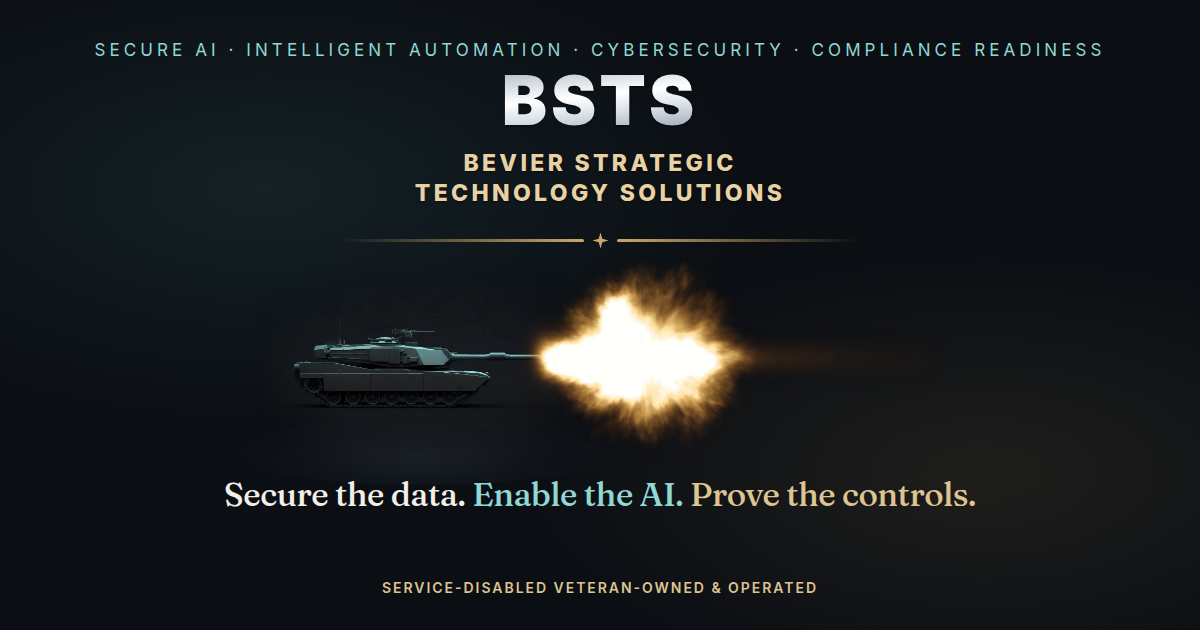
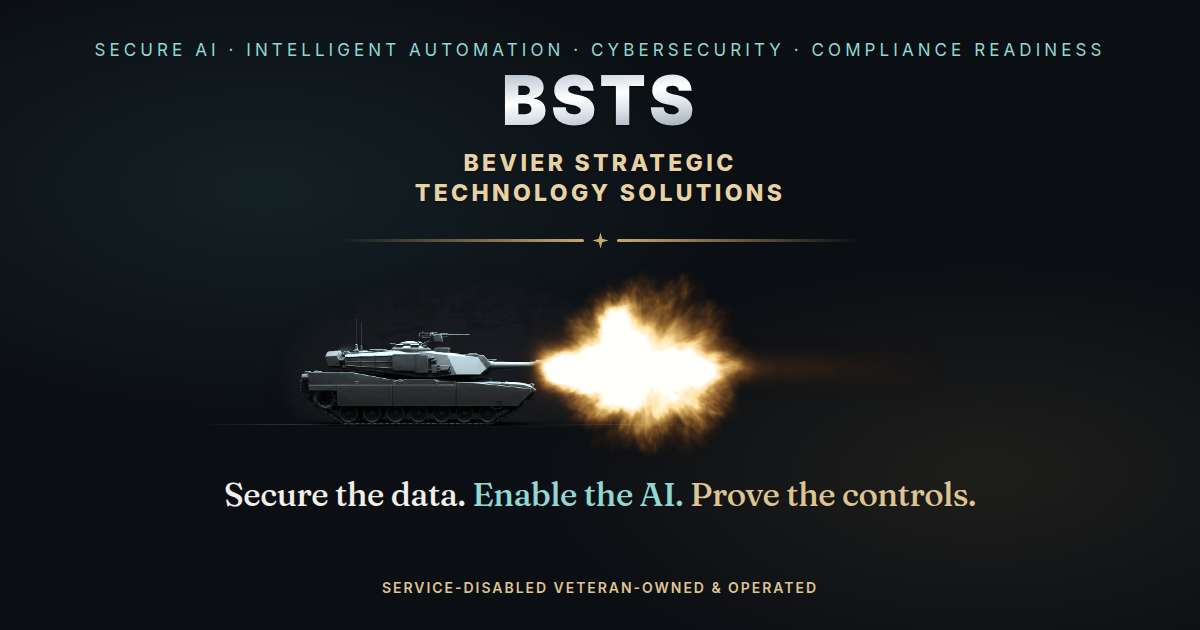
Site adopts the brochure's tank treatment and reduced flash
The brochures got a 30% smaller muzzle flash, a cropped tank, and a real
contact shadow; the site did not, so the two had visibly drifted apart in the
one place they most need to agree.

- /abrams-tank.webp replaces /abrams.webp. Same crop as print: cut at the
  track line, so the near-black wash below the tracks is gone. Bore axis
  moves to 61.99% of the new height.
- BLAST_TO_TANK drops from 1.2336 to 0.8635 — the same 2.70 -> 1.89in cut the
  covers took. Every dependent percentage re-solves from it.
- .hero-ground is replaced by .hero-horizon and .hero-contact, the same
  hairline-plus-contact-shadow pair the print pieces use. The old wash was a
  light ellipse floating behind the tank, which is half of what made it hover.
- The share card is regenerated from the same numbers; og-src.html carries its
  own copy of the geometry, so it is recomputed rather than hand-edited.

brand.test.ts updated: it now pins the tank source to the cropped asset and
the ratio to 0.8635, so the site cannot silently drift back to the old flash.

61 vitest, eslint clean.

Changed region(s): [[0.2467, 0.4222, 0.6475, 0.7238]]

diff --git a/src/components/brand/lockup.ts b/src/components/brand/lockup.ts
@@ -29,13 +29,21 @@
  * which is why the axis stays at 50% and only the attach fraction moves.
  */
 
-/** Tank bitmap: intrinsic size and the measured bore exit. */
+/** Tank bitmap: intrinsic size, the measured bore exit, and the ground. */
 export const TANK = {
-  src: "/abrams.webp",
+  // Cropped at the track line. The previous asset carried a near-black wash
+  // at ~40 alpha across 411 rows BELOW the tracks — a detached shadow, which
+  // is what made the tank read as hovering.
+  src: "/abrams-tank.webp",
   w: 1280,
-  h: 731,
+  h: 513,
   muzzleXFrac: 0.9133,
-  muzzleYFrac: 0.435,
+  muzzleYFrac: 0.6199,
+  /** where the tracks meet the ground, as a fraction of bitmap height */
+  groundYFrac: 503 / 513,
+  /** track footprint centre and width, as fractions of bitmap width */
+  footCXFrac: 0.4645,
+  footWFrac: 0.6539,
 } as const;
 
 /** Blast bitmap: intrinsic size, attach point, and axis. */
@@ -49,12 +57,13 @@ export const BLAST = {
 
 /**
  * Rendered width of the blast relative to the rendered width of the tank.
- * Taken from the brochure cover (tank 1.98in, blast 2.70in). Only one
+ * Taken from the brochure cover (tank 1.98in, blast 1.89in — the flash was
+ * cut 30% so the tracer, not the explosion, carries the energy). Only one
  * correction is needed: the web blast is a 1357/1500 crop of the print
  * asset. The two tank bitmaps need none — both are 1280 wide with the
  * muzzle at x 1169, so they share horizontal framing exactly.
  */
-export const BLAST_TO_TANK = (2.7 * (BLAST.w / 1500)) / 1.98;
+export const BLAST_TO_TANK = (1.89 * (BLAST.w / 1500)) / 1.98;
 
 /**
  * Solve for the smallest box that contains both bitmaps with their bore axes
@@ -92,6 +101,10 @@ function solve() {
     muzzleXPct: TANK.muzzleXFrac * tankW * 100,
     /** where the blast's attach point lands, same units — must match */
     attachXPct: (1 - blastW + BLAST.attachXFrac * blastW) * 100,
+    /** contact shadow + horizon, all as percentages of the box */
+    groundYPct: ((above - TANK.muzzleYFrac * tankH + TANK.groundYFrac * tankH) / boxH) * 100,
+    footCXPct: TANK.footCXFrac * tankW * 100,
+    footWPct: TANK.footWFrac * tankW * 100,
   };
 }
 

diff --git a/og-src.html b/og-src.html
@@ -70,15 +70,18 @@
   .star-rule .sr-line.r { background: linear-gradient(90deg, #c9a869 0%, rgba(201,168,105,0) 100%); }
 
   /* The shot. Percentages are the shared registration contract. */
-  .lockup { position: absolute; top: 252px; left: 255px; width: 690px; height: 215.5px; }
-  .ground {
-    position: absolute; top: 78%; left: -5%; width: 58%; height: 30%; border-radius: 50%;
-    background: radial-gradient(ellipse 60% 100% at 50% 50%,
-      rgba(120,148,178,0.16) 0%, rgba(90,116,145,0.07) 45%, rgba(11,14,19,0) 78%);
-  }
+  .lockup { position: absolute; top: 262px; left: 255px; width: 690px; height: 189.6px; }
+  .horizon { position: absolute; height: 1.5px;
+    background: linear-gradient(90deg, rgba(150,176,202,0) 0%, rgba(150,176,202,.26) 22%,
+      rgba(150,176,202,.38) 50%, rgba(150,176,202,.26) 78%, rgba(150,176,202,0) 100%);
+    top: 85.245%; left: -8.560%; width: 72.484%; }
+  .contact { position: absolute; border-radius: 50%; height: 9.2%;
+    background: radial-gradient(ellipse 50% 50% at 50% 50%, rgba(0,0,0,.70) 0%,
+      rgba(0,0,0,.40) 32%, rgba(0,0,0,.14) 58%, rgba(0,0,0,0) 80%);
+    top: 80.645%; left: 6.249%; width: 42.867%; }
   .tank {
-    position: absolute; top: 8.815%; left: 0; width: 49.858%; height: auto;
-    filter: brightness(1.18) contrast(1.05);
+    position: absolute; top: 0.000%; left: 0; width: 59.596%; height: auto;
+    filter: brightness(1.14) contrast(1.04);
     -webkit-mask-image: radial-gradient(ellipse 92% 88% at 50% 50%, black 58%, transparent 98%);
     mask-image: radial-gradient(ellipse 92% 88% at 50% 50%, black 58%, transparent 98%);
   }
@@ -112,8 +115,9 @@
   </div>
 
   <div class="lockup">
-    <div class="ground"></div>
-    <img class="tank" src="public/abrams.webp" alt="">
+    <div class="horizon"></div>
+    <div class="contact"></div>
+    <img class="tank" src="public/abrams-tank.webp" alt="">
     <img class="blast" src="public/blast-envelope.webp" alt="">
   </div>
 

diff --git a/src/components/brand/IdentityLockup.tsx b/src/components/brand/IdentityLockup.tsx
@@ -62,7 +62,28 @@ export function IdentityLockup({
         style={{ aspectRatio: String(LOCKUP.aspect) }}
         aria-hidden="true"
       >
-        <div className="hero-ground absolute top-[78%] -left-[5%] h-[30%] w-[58%]" />
+        {/* Ground. The old .hero-ground was a light ellipse floating behind
+            the tank, fighting the dark blob baked into the previous bitmap;
+            together they read as hovering. This is a hairline horizon at the
+            exact contact height plus a short contact shadow whose darkest
+            point touches the tracks. Same treatment as the printed piece. */}
+        <div
+          className="hero-horizon absolute"
+          style={{
+            top: `${LOCKUP.groundYPct}%`,
+            left: `${LOCKUP.footCXPct - LOCKUP.footWPct * 0.93}%`,
+            width: `${LOCKUP.footWPct * 1.86}%`,
+          }}
+        />
+        <div
+          className="hero-contact absolute"
+          style={{
+            top: `${LOCKUP.groundYPct - 4.6}%`,
+            left: `${LOCKUP.footCXPct - LOCKUP.footWPct * 0.55}%`,
+            width: `${LOCKUP.footWPct * 1.1}%`,
+            height: "9.2%",
+          }}
+        />
         <Image
           src={TANK.src}
           alt=""
@@ -77,7 +98,7 @@ export function IdentityLockup({
             // gun tube survive toner on matte. Screen gets the same read from
             // the untouched web bitmap plus a matching lift, rather than a
             // second exported file to keep in sync.
-            filter: "brightness(1.18) contrast(1.05)",
+            filter: "brightness(1.14) contrast(1.04)",
             maskImage:
               "radial-gradient(ellipse 92% 88% at 50% 50%, black 58%, transparent 98%)",
             WebkitMaskImage:

diff --git a/src/test/brand.test.ts b/src/test/brand.test.ts
@@ -42,7 +42,7 @@ describe("identity lockup geometry", () => {
     // Print: tank 1.98in, blast 2.70in, corrected for both crops. If someone
     // resizes one asset without the other, the shot stops looking like one
     // photograph even though it is still collinear.
-    expect(BLAST_TO_TANK).toBeCloseTo(1.2336, 3);
+    expect(BLAST_TO_TANK).toBeCloseTo(0.8635, 3);
     expect(LOCKUP.blastWidthPct / LOCKUP.tankWidthPct).toBeCloseTo(BLAST_TO_TANK, 6);
   });
 
@@ -50,7 +50,7 @@ describe("identity lockup geometry", () => {
     // abrams.webp's alpha is a soft full-frame glow centred on the image,
     // so any alpha-derived axis lands at ~0.4993 and the fireball ends up
     // under the barrel. The tube itself measures 0.4350. Guard the gap.
-    expect(TANK.muzzleYFrac).toBeCloseTo(0.435, 3);
+    expect(TANK.muzzleYFrac).toBeCloseTo(0.6199, 3);
     expect(TANK.muzzleYFrac).not.toBeCloseTo(0.4993, 2);
     expect(TANK.muzzleXFrac).toBeCloseTo(0.9133, 3);
   });
@@ -60,13 +60,13 @@ describe("identity lockup geometry", () => {
     // A reference photograph informed the physics only; no pixel of it is in
     // any asset, and nothing here may point at one.
     expect(BLAST.src).toBe("/blast-envelope.webp");
-    expect(TANK.src).toBe("/abrams.webp");
+    expect(TANK.src).toBe("/abrams-tank.webp");
   });
 
   it("produces a wide, short box rather than a tall one", () => {
     // A tall lockup pushes the promise and the calls to action below the
     // fold on a 768px laptop, which is what the compression pass fixed.
     expect(LOCKUP.aspect).toBeGreaterThan(3);
-    expect(LOCKUP.aspect).toBeLessThan(3.7);
+    expect(LOCKUP.aspect).toBeLessThan(4.6);
   });
 });

diff --git a/src/app/globals.css b/src/app/globals.css
@@ -408,15 +408,32 @@ body {
   flex-shrink: 0;
 }
 
-/* Ground-plane wash so the tank's reflection has something to sit on. */
-.hero-ground {
-  position: absolute;
+/* Ground. A shadow alone cannot say "surface" on a field this dark, and a
+   wide soft wash reads as a floating disc — which is what the old
+   .hero-ground did. One hairline at the exact contact height, plus a short
+   contact shadow whose darkest point touches the tracks. Identical treatment
+   to the printed piece, so the tank sits the same way in both. */
+.hero-horizon {
+  height: 1.5px;
+  pointer-events: none;
+  background: linear-gradient(
+    90deg,
+    rgba(150, 176, 202, 0) 0%,
+    rgba(150, 176, 202, 0.26) 22%,
+    rgba(150, 176, 202, 0.38) 50%,
+    rgba(150, 176, 202, 0.26) 78%,
+    rgba(150, 176, 202, 0) 100%
+  );
+}
+.hero-contact {
   border-radius: 50%;
+  pointer-events: none;
   background: radial-gradient(
-    ellipse 60% 100% at 50% 50%,
-    rgba(120, 148, 178, 0.16) 0%,
-    rgba(90, 116, 145, 0.07) 45%,
-    rgba(11, 14, 19, 0) 78%
+    ellipse 50% 50% at 50% 50%,
+    rgba(0, 0, 0, 0.70) 0%,
+    rgba(0, 0, 0, 0.40) 32%,
+    rgba(0, 0, 0, 0.14) 58%,
+    rgba(0, 0, 0, 0) 80%
   );
 }
 
